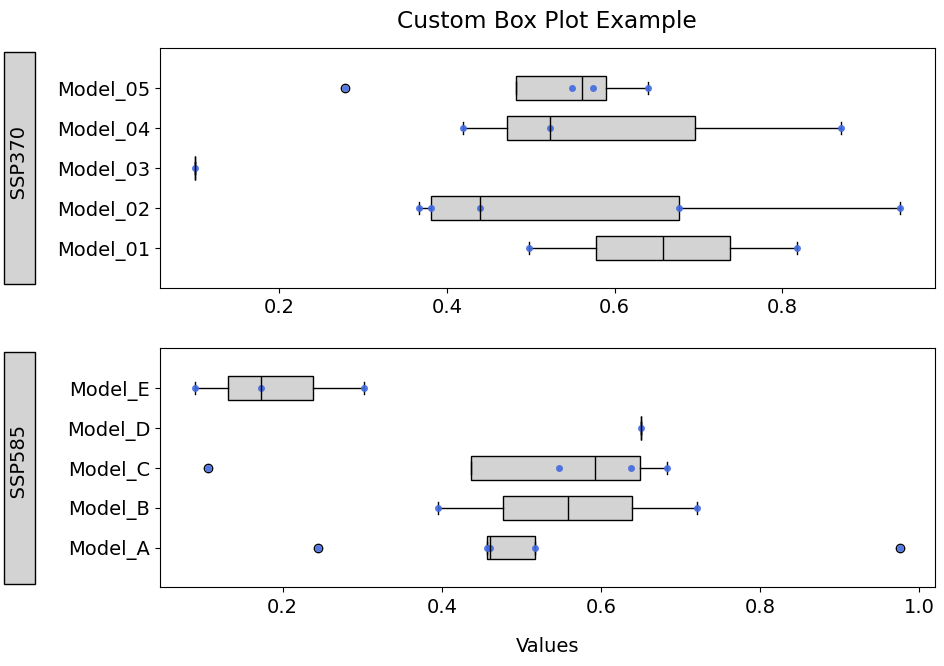
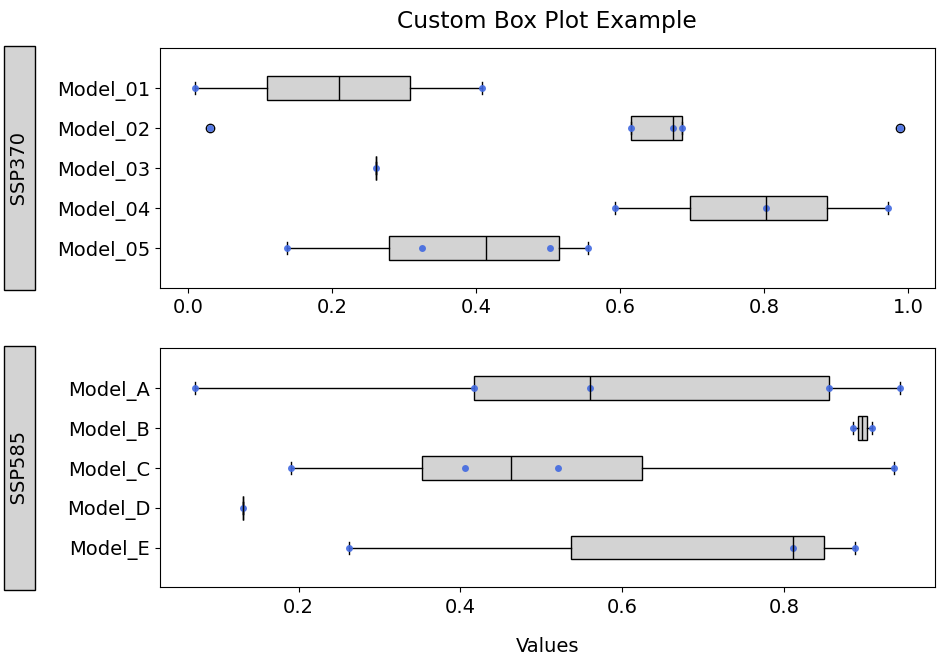
small fixes

diff --git a/horizontal_box_plot/custom_box_plot.py b/horizontal_box_plot/custom_box_plot.py
@@ -23,7 +23,8 @@ def custom_box_plot(
         fig_ylabels: Optional[Union[np.ndarray[str], List[np.ndarray[str]]]] = [['Scenario 1'], ['Scenario 2']],
         fig_title: Optional[str] = 'Custom Box Plot',
         xlabel: Optional[str] = 'Values',
-        fig_size: Optional[Tuple[int, int]] = (10, 7)
+        fig_size: Optional[Tuple[int, int]] = (10, 7),
+        invert_yaxis: bool = True
         ):
     """
     Creates a matplotlib figure containing horizontal box subplots.
@@ -120,7 +121,8 @@ def plot_scenario(
         marker_size: Optional[float] = 5,
         marker_outline_width: Optional[float] = 0,
         spacing_factor: Optional[float] = 0.5,
-        fig_ylabel: Optional[str] = ['Scenario']
+        fig_ylabel: Optional[str] = ['Scenario'],
+        invert_yaxis: bool = True
         ):
 
     # Define custom positions to reduce spacing between boxes
@@ -159,7 +161,9 @@ def plot_scenario(
     # Adjust y-axis labels to match box positions
     ax.set_yticks(positions)
     ax.set_yticklabels(labels)
+    if invert_yaxis:
+        ax.invert_yaxis()
 
     # Add labels to plot
-    ax.set_ylabel('             '+fig_ylabel+'           ', bbox=dict(edgecolor='black', facecolor='lightgray'), labelpad=20)
+    ax.set_ylabel('             '+fig_ylabel+'             ', bbox=dict(edgecolor='black', facecolor='lightgray'), labelpad=20)
     return ax
